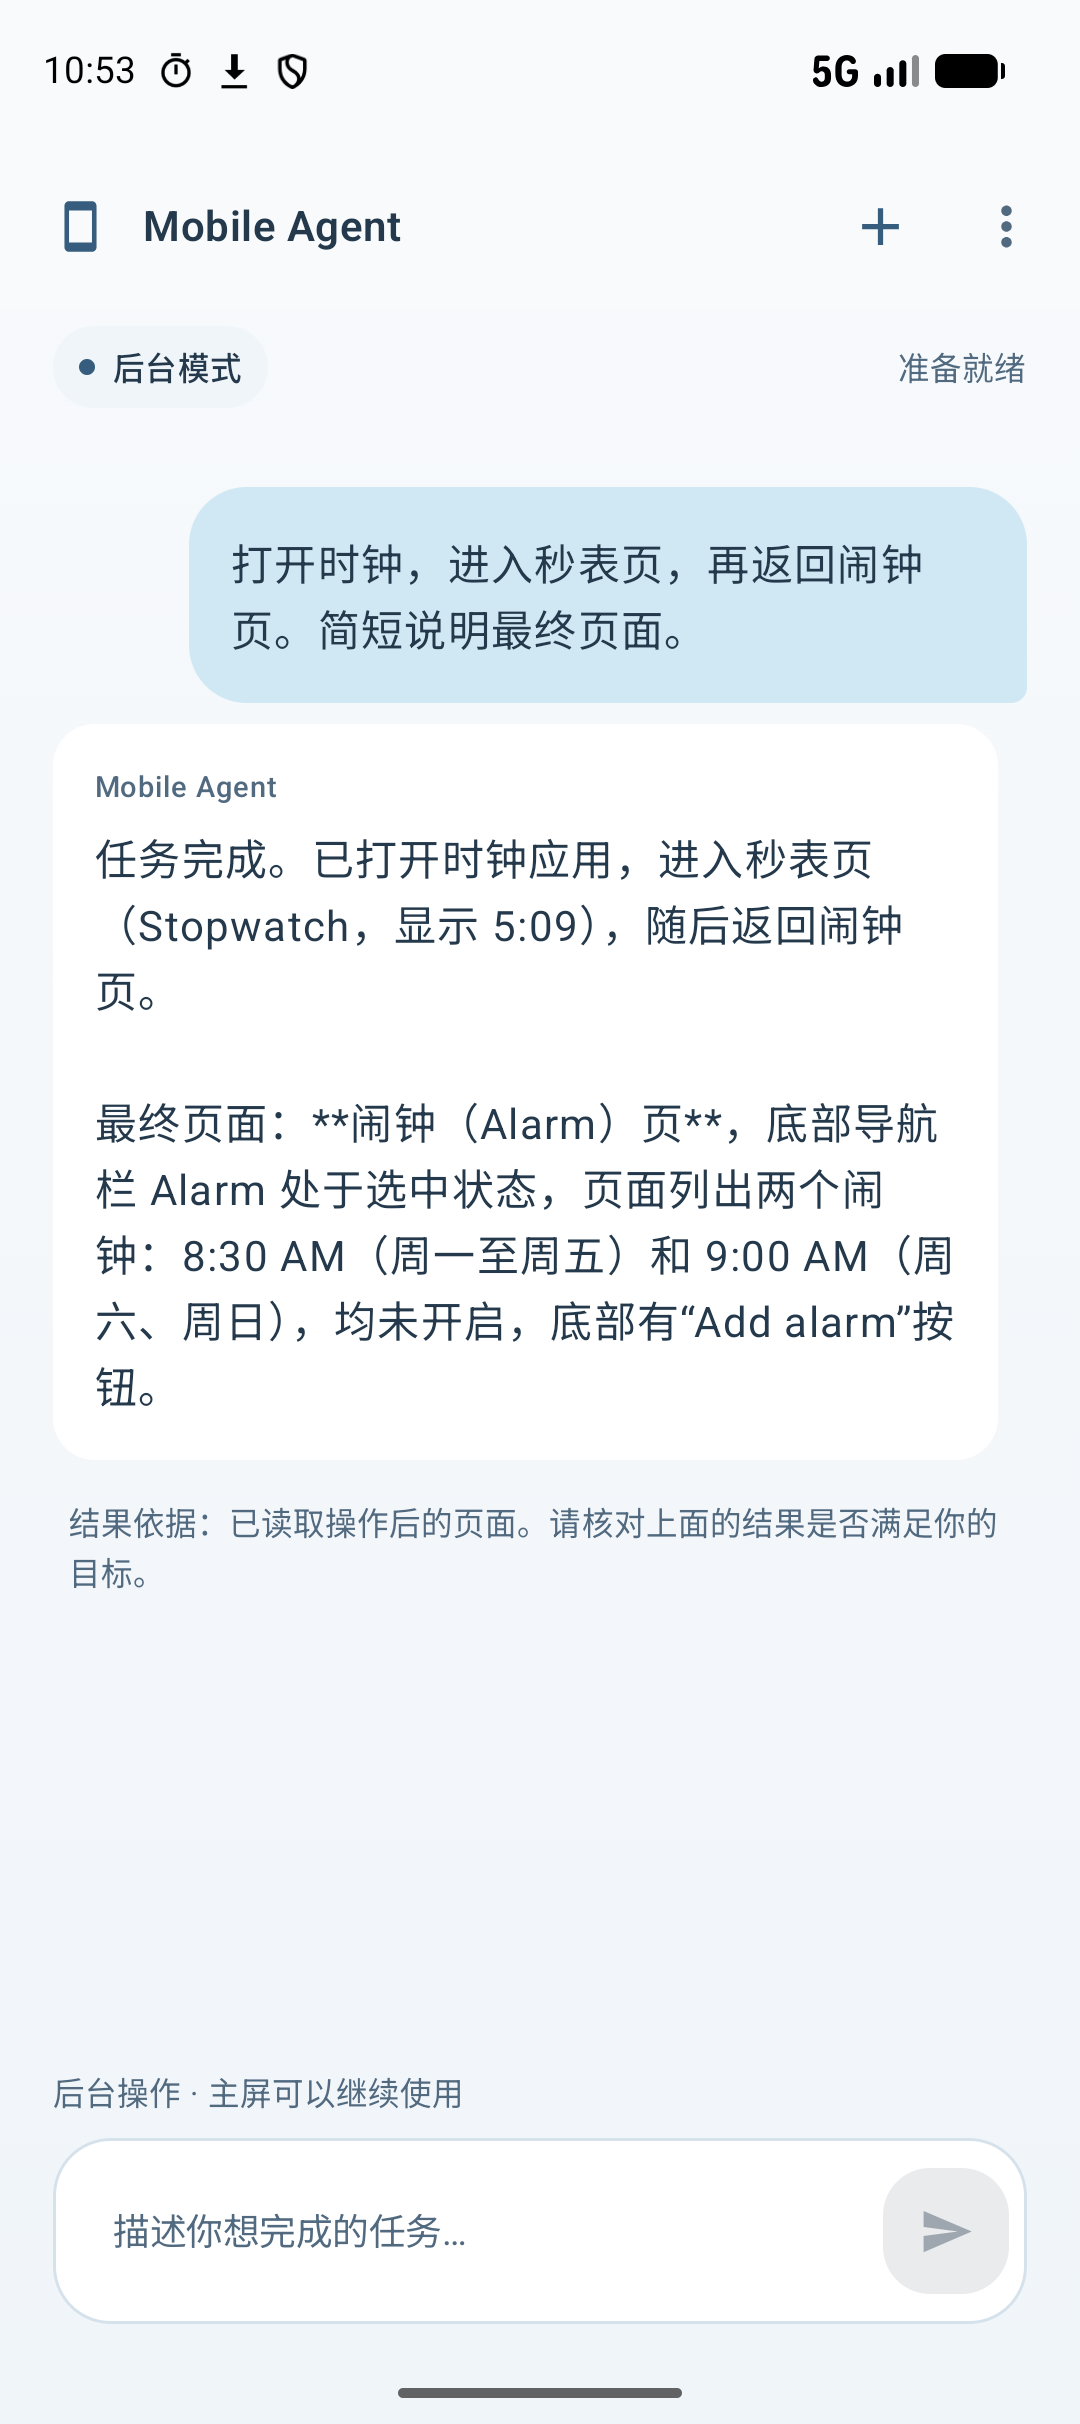
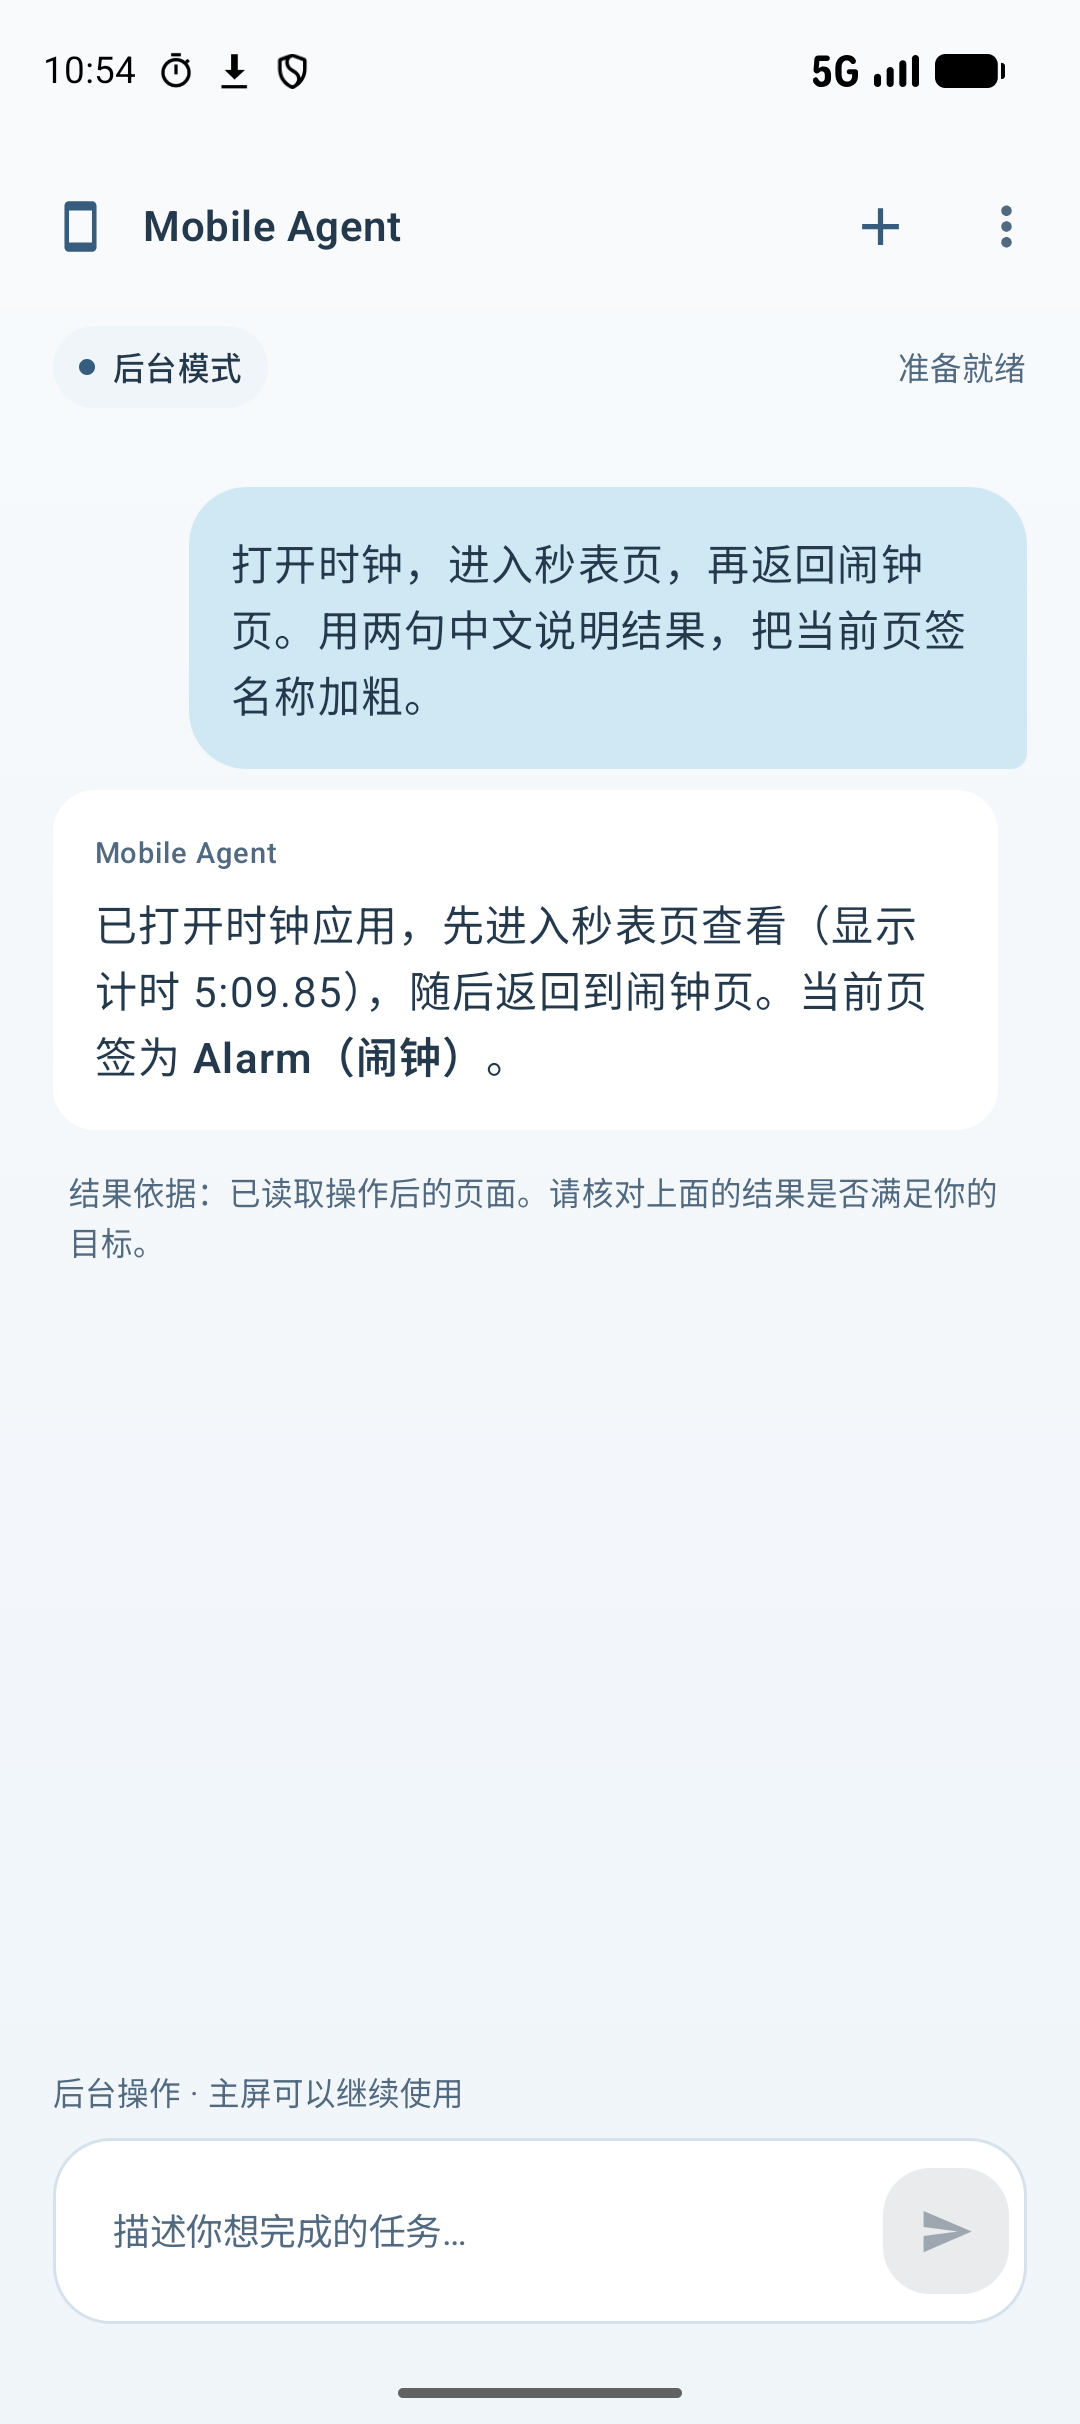
fix(android): render bold text in agent responses

diff --git a/apps/android/app/src/main/java/ai/mobileagent/MainActivity.kt b/apps/android/app/src/main/java/ai/mobileagent/MainActivity.kt
@@ -20,6 +20,11 @@ import androidx.compose.foundation.BorderStroke
 import androidx.compose.foundation.clickable
 import androidx.compose.foundation.layout.size
 import androidx.compose.ui.text.style.TextAlign
+import androidx.compose.ui.text.AnnotatedString
+import androidx.compose.ui.text.SpanStyle
+import androidx.compose.ui.text.buildAnnotatedString
+import androidx.compose.ui.text.withStyle
+import androidx.compose.ui.text.font.FontWeight
 import androidx.compose.ui.unit.sp
 import androidx.compose.foundation.layout.heightIn
 import androidx.compose.material.icons.outlined.Smartphone
@@ -420,7 +425,7 @@ private fun Chat(state: AgentState, modifier: Modifier = Modifier) {
                         }, border = null) {
                         Column(Modifier.padding(16.dp), verticalArrangement = Arrangement.spacedBy(6.dp)) {
                             if (!user) Text(if (message.role == MessageRole.ERROR) "需要处理" else "Mobile Agent", style = MaterialTheme.typography.labelSmall, color = MaterialTheme.colorScheme.onSurfaceVariant)
-                            Text(message.text, style = MaterialTheme.typography.bodyLarge,
+                            Text(if (message.role == MessageRole.AGENT) formatAgentText(message.text) else AnnotatedString(message.text), style = MaterialTheme.typography.bodyLarge,
                                 color = if (message.role == MessageRole.ERROR) MaterialTheme.colorScheme.onErrorContainer else MaterialTheme.colorScheme.onSurface)
                         }
                     }
@@ -471,4 +476,15 @@ private fun TaskExample(icon: ImageVector, title: String, description: String, o
             Icon(Icons.AutoMirrored.Filled.ArrowForward, contentDescription = null, tint = MaterialTheme.colorScheme.outline, modifier = Modifier.size(16.dp))
         }
     }
+}
+
+
+private fun formatAgentText(text: String): AnnotatedString = buildAnnotatedString {
+    var offset = 0
+    Regex("\\*\\*(.+?)\\*\\*").findAll(text).forEach { match ->
+        append(text.substring(offset, match.range.first))
+        withStyle(SpanStyle(fontWeight = FontWeight.SemiBold)) { append(match.groupValues[1]) }
+        offset = match.range.last + 1
+    }
+    append(text.substring(offset))
 }
